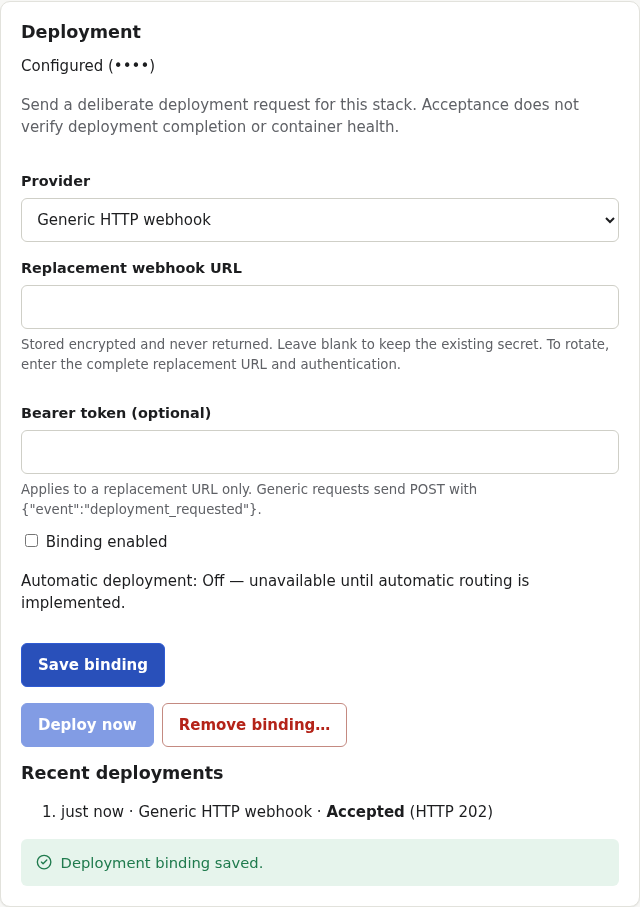
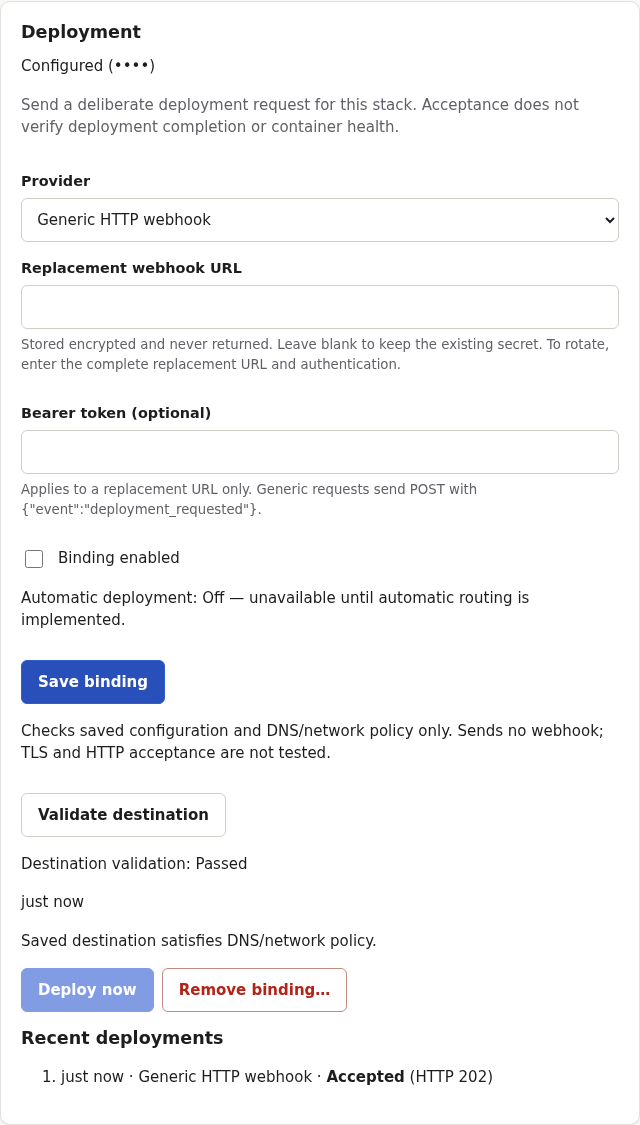
fix(deployment): keep validation status readable and record final checks

diff --git a/src/server/application/deployment-service.ts b/src/server/application/deployment-service.ts
@@ -350,16 +350,11 @@ export class DeploymentService {
           ctx.signal.throwIfAborted();
           providerInvoked = true;
           const r = await provider.trigger(config, { signal: ctx.signal, idempotencyKey: a.id });
-          return {
-            status: r.status,
-            httpStatus: 'httpStatus' in r ? r.httpStatus : null,
-            reason:
-              r.status === 'unknown'
-                ? 'Request outcome uncertain; verify destination before retrying.'
-                : r.httpStatus === null
-                  ? 'Destination validation prevented the request.'
-                  : null,
-          };
+          let reason: string | null = null;
+          if (r.status === 'unknown')
+            reason = 'Request outcome uncertain; verify destination before retrying.';
+          else if (r.httpStatus === null) reason = 'Destination validation prevented the request.';
+          return { status: r.status, httpStatus: 'httpStatus' in r ? r.httpStatus : null, reason };
         },
         { kind: 'deployment', providerType: b.providerType, nonce: a.credentialNonce },
       );

diff --git a/src/ui/deployment-settings.tsx b/src/ui/deployment-settings.tsx
@@ -359,7 +359,7 @@ function DestinationValidation({
         Validate destination
       </Button>
       {binding?.lastTestStatus ? (
-        <output className="stack">
+        <output className="deployment-validation stack">
           <span>Destination validation: {binding.lastTestStatus === 'ok' ? 'Passed' : 'Failed'}</span>
           <span>
             <LocalTime iso={binding.lastTestedAt} />

diff --git a/src/app/styles/components.css b/src/app/styles/components.css
@@ -796,3 +796,8 @@ table.simple th {
 .deployment-dialog::backdrop {
   background: rgb(0 0 0 / 55%);
 }
+
+.deployment-validation,
+.deployment-validation > span {
+  display: block;
+}

diff --git a/docs/internal/deployment-webhooks-review.md b/docs/internal/deployment-webhooks-review.md
@@ -88,7 +88,8 @@ Added **Validate destination**, which checks the saved configuration and DNS/net
 sending any HTTP request. Status/time persist in the existing credential test fields, with binding
 revision and credential nonce fencing so concurrent rotation/removal cannot stamp stale results.
 The UI preserves unsaved input and explicitly excludes TLS, HTTP acceptance and health verification.
-Disabled bindings may be validated. Rotation resets the status. Final revalidation is requested after push.
+Disabled bindings may be validated. Rotation resets the status. Kody revalidation reports **Compliant**, high confidence, with no missing or partial requirements:
+https://github.com/uniskela/stack-manager/pull/65#issuecomment-6314688187
 
 ## Remaining operational acceptance
 
@@ -122,3 +123,16 @@ release, image publication or production deployment performed.
 - Final local Docker rebuild was cancelled when the VPS approached disk capacity. Earlier local
   Docker smoke/restart/missing-key checks passed; final-head Docker CI and the separate configuration,
   dependency and image security workflow at run 39590233264 passed without publication.
+
+Latest maintained local check: 544/544 tests and format/lint/types passed. Full browser/axe rerun:
+43 passed, 13 expected skips with the public sample repository. One interrupted run failed when a
+concurrent rebuild replaced the server assets; the isolated rerun above passed. Final semantic output
+layout was visually checked and given block layout to keep status/date/message readable on phones.
+Sonar gate remains green, with ten Promise-port S7503 and one bounded recovery S9382 advisory
+retained with the dispositions above; no security hotspots. Sonar coverage is not imported by the
+maintained workflow, so its 0% display is not a test execution result.
+
+Final focused desktop/mobile deployment+axe run: 4/4 passed, screenshots refreshed with synthetic
+configuration only. Final production build and 32 service regressions pass after the small readability
+and status-layout changes. All maintained PR checks at b8f661a pass; final documentation/layout head
+is rechecked by CI. No merge, release, image publication or production deployment was performed.
